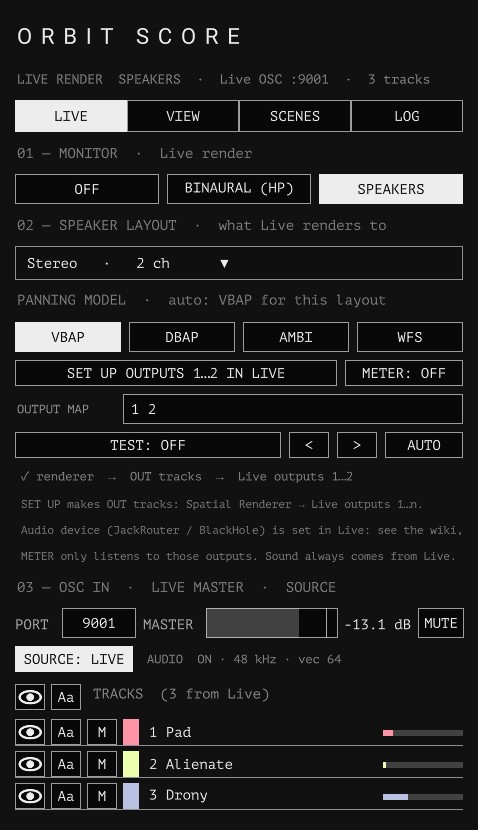
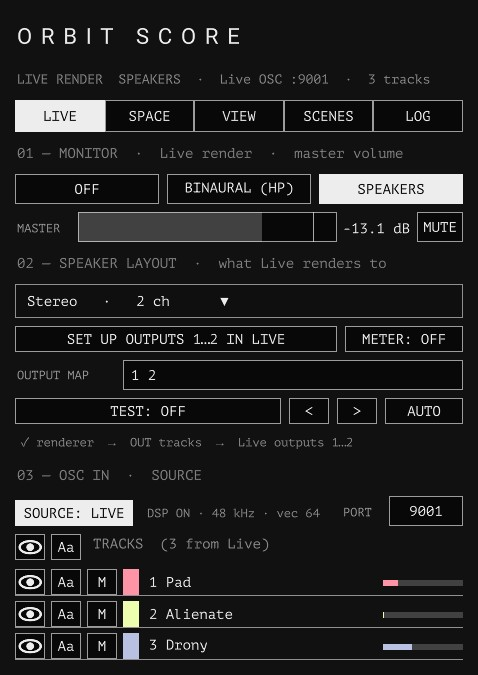
Orbit Score wiki v9.1: SPACE tab, MASTER under MONITOR, editor SOUND section
Claude-Session: https://claude.ai/code/session_01TKc1CDoWRtRwsAG1rPAYtG

Changed region(s): [[0.0293, 0.0311, 0.9665, 0.9956], [0.7908, 0.84, 0.9665, 0.9644], [0.7029, 0.7156, 0.9958, 0.7778]]

diff --git a/orbitscore-wiki/index.html b/orbitscore-wiki/index.html
@@ -144,7 +144,7 @@ footer{font:11.5px/1.6 var(--f-mono);color:var(--mid);border-top:1px solid var(-
 <div class="page">
 <nav class="side" aria-label="Contents">
   <div class="brand">ORBIT SCORE</div>
-  <div class="status">WIKI · v9.0 · 2026.11<br>LIVE · M4L · TOUCHDESIGNER</div>
+  <div class="status">WIKI · v9.1 · 2026.11<br>LIVE · M4L · TOUCHDESIGNER</div>
   <button class="btn menu" id="menuBtn" aria-expanded="false">CONTENTS ▾</button>
   <ol class="toc" id="toc">
     <li><a href="#overview"><span>00</span>OVERVIEW</a></li>
@@ -260,7 +260,7 @@ footer{font:11.5px/1.6 var(--f-mono);color:var(--mid);border-top:1px solid var(-
     <li><strong>Custom (measured)</strong> — last entry of the layout list. <strong>EDIT TABLE</strong> opens a table with one row per speaker: <span class="mono">name · az · el · dist · lfe</span> (az + = left, el + = up, dist relative to the ring, 1 = the speaker radius; lfe 1 for a sub). Measure the real room and type it in: the preview, the panning (VBAP, DBAP, AMBI decoder) and WFS all update when the table changes. Up to 64 speakers.</li>
     <li><strong>METER</strong> — optional. It finds JackRouter / BlackHole by itself and shows one level per speaker. On Windows, also connect Live's outputs to TouchDesigner's inputs in the QjackCtl Graph. You can leave it off.</li>
   </ul>
-  <figure class="ticks"><div class="t"></div><img src="media/ui-speakerout.jpg?v=1110f" alt="Sidebar LIVE tab: MONITOR, SPEAKER LAYOUT, PANNING MODEL, SET UP OUTPUTS and METER, OUTPUT MAP, speaker TEST, OSC IN with MASTER and MUTE, TRACKS" loading="lazy" width="478" height="830" style="max-width:478px"><figcaption>FIG. 1.2 — LIVE tab: SET UP OUTPUTS · METER under the speaker layout, wiki link at the bottom</figcaption></figure>
+  <figure class="ticks"><div class="t"></div><img src="media/ui-speakerout.jpg?v=1110g" alt="Sidebar LIVE tab: MONITOR with MASTER and MUTE, SPEAKER LAYOUT, SET UP OUTPUTS and METER, OUTPUT MAP, speaker TEST, status, OSC IN with SOURCE and PORT, TRACKS" loading="lazy" width="478" height="675" style="max-width:478px"><figcaption>FIG. 1.2 — LIVE tab: SET UP OUTPUTS · METER under the speaker layout, wiki link at the bottom</figcaption></figure>
   <div class="note"><b>NOTE</b>Live's Preferences → Audio (driver, device, sample rate, Output Config) cannot be changed through the Live API, so that part is set by hand once. The tracks and routing inside the set are handled by SET UP.</div>
   </section>
 
@@ -365,7 +365,8 @@ footer{font:11.5px/1.6 var(--f-mono);color:var(--mid);border-top:1px solid var(-
   <p>The right-hand panel folds away with the <span class="pill">›</span> button on its edge. It has three tabs.</p>
   <div class="tw"><table>
     <tr><th>Tab</th><th>Contents</th></tr>
-    <tr><td>LIVE</td><td>Everything that talks to Live. <strong>01 MONITOR</strong> Off / Binaural (HP) / Speakers · <strong>02 SPEAKER LAYOUT</strong> click to open the list (Custom: EDIT TABLE) · <strong>PANNING MODEL</strong> VBAP / DBAP / AMBI / WFS, follows the layout unless you pick one; SPEAKER DISTANCE · PRE-FILTER (WFS) · <strong>ROOM REVERB</strong> on/off, time, amount · <strong>REFLECTIONS</strong> on/off, room, level · <strong>SPEAKER DISTANCE</strong> metres (+ PRE-FILTER in WFS) · <strong>OUTPUT MAP</strong> which Live output each speaker plays on · <strong>03 OSC IN · LIVE MASTER · SOURCE</strong> port (editable), MASTER volume slider (Live's main volume; in speaker mode it scales the Spatial Renderer's outputs instead, since those bypass the main track), a <strong>MUTE</strong> button next to it (silences everything, keeps the slider value), SOURCE: LIVE / DEMO, and Live's audio state (DSP, sample rate, vector size; warns if not 48 kHz) · <strong>SET UP OUTPUTS 1…n IN LIVE</strong> (under the layout: the renderer's OUT tracks), status line, optional METER. Problems go to the LOG tab, which shows a small ⚠ · <strong>TRACKS</strong> per track: show (eye), name label (Aa), mute (M), colour, level meter</td></tr>
+    <tr><td>LIVE</td><td>Everything that talks to Live. <strong>01 MONITOR</strong> Off / Binaural (HP) / Speakers, and <strong>MASTER</strong> volume with <strong>MUTE</strong> right under it (in speaker mode it scales the Spatial Renderer, MUTE silences everything and keeps the slider) · <strong>02 SPEAKER LAYOUT</strong> click to open the list (Custom: EDIT TABLE) · <strong>SET UP OUTPUTS 1…n IN LIVE</strong> and optional METER · <strong>OUTPUT MAP</strong> which Live output each speaker plays on · <strong>TEST · &lt; · &gt; · AUTO</strong> · status line (setup hints only while something is missing) · <strong>03 OSC IN · SOURCE</strong> SOURCE: LIVE / DEMO, Live's audio state (DSP, sample rate, vector size), PORT · <strong>TRACKS</strong> per track: show (eye), name label (Aa), mute (M), colour, level meter</td></tr>
+    <tr><td>SPACE</td><td>How the sound fills the space. <strong>01 PANNING MODEL</strong> VBAP / DBAP / AMBI / WFS, follows the layout unless you pick one · <strong>02 ROOM</strong> ROOM REVERB (on, time, amount), REFLECTIONS (on, room, level), SPEAKER DISTANCE in metres (+ PRE-FILTER in WFS). Drag a value up / down to change it</td></tr>
     <tr><td>VIEW</td><td>Only what changes the picture. <strong>01 VIEW</strong> dome guide, auto orbit, reset view, ears, theme, names, head (hides the listener model, ears and face)</td></tr>
     <tr><td>SCENES</td><td>Scene list (see <a href="#scenes">05</a>)</td></tr>
     <tr><td>LOG</td><td>WARNINGS (output checks; a ⚠ on the tab while one is active), OSC and device messages. Drag to select and copy. COPY / CLEAR / RESEND (ask Live to send its whole state again)</td></tr>
@@ -380,6 +381,7 @@ footer{font:11.5px/1.6 var(--f-mono);color:var(--mid);border-top:1px solid var(-
   <div class="cap">04 — Object editor</div>
   <h2>Object editor</h2>
   <figure class="ticks"><div class="t"></div><img src="media/ui-editor.jpg?v=1110b" alt="OBJECT EDITOR: object list on the left, path canvas with orbit gizmo in the centre, MOTION / PATH / SHAPE settings on the right" loading="lazy" width="1920" height="1080"><figcaption>FIG. 4.1 — Left: objects · centre: path canvas · right: position read-out, MOTION, PATH, SHAPE · EDIT PATH above the canvas</figcaption></figure>
+  <figure class="ticks"><div class="t"></div><img src="media/ui-editor-set.jpg?v=1111a" alt="Editor settings column: 02 MOTION, 03 PATH, 04 SHAPE (ROTATE | TILT, modulation dropdowns, RANGE | SPEED), 05 SOUND (SPREAD | ROOM, AIR | DOPPLER)" loading="lazy" width="320" height="780" style="max-width:320px"><figcaption>Settings column: SHAPE and SOUND</figcaption></figure>
   <p>Open it from <span class="pill">OBJECT EDITOR</span> in the top bar. Anything you change here goes straight to the Live device's parameters, and the screen shows what the device sends back, so editing in either place gives the same result.</p>
   <h3>Viewpoint</h3>
   <ul>
@@ -401,7 +403,7 @@ footer{font:11.5px/1.6 var(--f-mono);color:var(--mid);border-top:1px solid var(-
   </table></div>
   <p>Curves are Catmull-Rom (Hermite) splines, and playback moves at constant speed along the arc length. Position = Live song position ÷ (Path Length × 4 beats).</p>
   <h3>Sliders</h3>
-  <p>Click or drag a slider (RATE, SIZE, PATH LENGTH, POINT HEIGHT, LENGTH, SPREAD, ROOM, ROTATE, TILT, RANGE, SPEED) to set it; AIR and DOPPLER (on / off) sit next to ROOM. Under TILT, <strong>ROT · FIXED ▼</strong> and <strong>TILT · FIXED ▼</strong> are dropdowns: pick FIXED, RANDOM, SPIN or LFO for that angle, and RANGE / SPEED set how far and how fast. While an angle is modulated its slider follows the moving value, its label shows the mode, and it cannot be dragged — the dial value in Live stays the centre the movement runs around. <strong>Double-click</strong> it to type a number instead: <kbd>Enter</kbd> or clicking elsewhere applies, <kbd>Esc</kbd> cancels. Units can be left off; the value is clamped to the slider's range.</p>
+  <p>Click or drag a slider (RATE, SIZE, PATH LENGTH, POINT HEIGHT, LENGTH, SPREAD, ROOM, ROTATE, TILT, RANGE, SPEED) to set it. The settings column reads 02 MOTION · 03 PATH · 04 SHAPE (point / line, facing, LENGTH, ROTATE | TILT, their modulation, RANGE | SPEED) · <strong>05 SOUND</strong> (SPREAD | ROOM, AIR | DOPPLER). Under TILT, <strong>ROT · FIXED ▼</strong> and <strong>TILT · FIXED ▼</strong> are dropdowns: pick FIXED, RANDOM, SPIN or LFO for that angle, and RANGE / SPEED set how far and how fast. While an angle is modulated its slider follows the moving value, its label shows the mode, and it cannot be dragged — the dial value in Live stays the centre the movement runs around. <strong>Double-click</strong> it to type a number instead: <kbd>Enter</kbd> or clicking elsewhere applies, <kbd>Esc</kbd> cancels. Units can be left off; the value is clamped to the slider's range.</p>
   <h3>Saving</h3>
   <p><span class="pill">SAVE</span> writes every object's settings to <code>spatialize_snapshots/&lt;time&gt;.json</code> and <code>latest.json</code>, and saves the TouchDesigner project. <span class="pill">LOAD LAST</span> restores the last snapshot. Save the Live set separately.</p>
 </section>
@@ -463,12 +465,13 @@ footer{font:11.5px/1.6 var(--f-mono);color:var(--mid);border-top:1px solid var(-
   <p>Headphones. When an object comes within about 1 m of the head (Distance × SPEAKER DISTANCE), the ear facing it gets louder and fuller in the bass and the far ear quieter — more than the far-field HRTF alone gives — and the whole sound comes up by as much as 6 dB. At 20 cm on the left: left ear about +11 dB with up to +6 dB of low end, right ear about −3 dB. That is the "whispering in your ear" cue. It needs no setting: it works on every object in binaural mode as soon as it gets close, and has no effect in speaker mode.</p>
   <h3>Early reflections</h3>
   <p>Speaker mode. The first echoes off the walls, floor and ceiling tell the ear what kind of room it is in and where the source sits in it. For every object the Spatial Renderer mirrors its position in the six surfaces of a box room (first-order image sources), delays each mirror image by its extra path, lowers it by the extra distance and the surface's absorption, and pans it to its own direction with VBAP. Move an object towards a wall and its reflection off that wall gets earlier and louder.</p>
-  <p>LIVE tab, <strong>REFLECTIONS</strong>: ON / OFF, <strong>ROOM</strong> (listener to the walls, 1.5 – 40 m; floor 1.2 m below the ears, ceiling at least 2.8 m) and the level. <strong>SPEAKER DISTANCE</strong> (listener to the speakers in metres) sets the scale between the layout and the room — measure it in the real space. Press a value and drag up or down. The reflections come before the room reverb's tail, so the two work together: ROOM for the shape, ROOM REVERB for the length.</p>
+  <p>SPACE tab, <strong>REFLECTIONS</strong>: ON / OFF, <strong>ROOM</strong> (listener to the walls, 1.5 – 40 m; floor 1.2 m below the ears, ceiling at least 2.8 m) and the level. <strong>SPEAKER DISTANCE</strong> (listener to the speakers in metres) sets the scale between the layout and the room — measure it in the real space. Press a value and drag up or down. The reflections come before the room reverb's tail, so the two work together: ROOM for the shape, ROOM REVERB for the length.</p>
   <h3>Room reverb</h3>
   <p>Speaker mode. The strongest distance cue is how much room you hear against the direct sound: a near source is mostly direct, a far one mostly room. The Spatial Renderer has one shared reverb (an 8-line feedback delay network); every object feeds it with a send that grows with its Distance, while its direct sound keeps falling with distance — so moving an object out makes it sound farther, not just quieter. The reverb's 8 uncorrelated tails are spread over all speakers (LFE excluded, the OUTPUT MAP is followed), so the room surrounds the listener.</p>
-  <p>LIVE tab, <strong>ROOM REVERB</strong>: ON / OFF, the reverb time (0.3 – 10 s; the room also gets bigger with it) and the amount (0 – 100 %). Press a value and drag up or down to change it. It works with every panning model. MASTER and MUTE apply to it, the speaker TEST silences it. Binaural mode has no room reverb yet — use a reverb on a Live return there.</p>
+  <p>SPACE tab, <strong>ROOM REVERB</strong>: ON / OFF, the reverb time (0.3 – 10 s; the room also gets bigger with it) and the amount (0 – 100 %). Press a value and drag up or down to change it. It works with every panning model. MASTER and MUTE apply to it, the speaker TEST silences it. Binaural mode has no room reverb yet — use a reverb on a Live return there.</p>
   <h3>Panning model</h3>
-  <p>PANNING MODEL (LIVE tab, under the speaker layout) sets how the <strong>Spatial Renderer</strong> spreads each object over the speakers, and the 3D view lights the speakers with the same gains — what you see is what you hear. All models are normalised to the same energy, so switching does not jump in level.</p>
+  <figure class="ticks"><div class="t"></div><img src="media/ui-space.jpg?v=1111a" alt="Sidebar SPACE tab: 01 PANNING MODEL with VBAP DBAP AMBI WFS, 02 ROOM with ROOM REVERB, REFLECTIONS and SPEAKER DISTANCE" loading="lazy" width="478" height="389" style="max-width:478px"><figcaption>FIG. 3.1 — SPACE tab: panning model and room</figcaption></figure>
+  <p>PANNING MODEL (SPACE tab) sets how the <strong>Spatial Renderer</strong> spreads each object over the speakers, and the 3D view lights the speakers with the same gains — what you see is what you hear. All models are normalised to the same energy, so switching does not jump in level.</p>
   <p><strong>Auto by layout.</strong> Choosing a speaker layout also picks its recommended model: VBAP for stereo, quad, 5.1, 7.1 and 5.1.4 (too few or too uneven speakers for Ambisonics); AMBI — the more enveloping of the two — for hexagon, octagon, ring 16, 7.1.4, 9.1.6, cube 8 and dome 25; WFS for the WFS arrays. Press another model and that choice is remembered for that layout (the heading reads <em>your pick</em>); press the recommended one to go back to auto. DBAP is never picked automatically — choose it for installations and walking audiences.</p>
   <div class="tw"><table>
     <tr><th>Model</th><th>How</th><th>Good for</th></tr>
@@ -646,6 +649,7 @@ footer{font:11.5px/1.6 var(--f-mono);color:var(--mid);border-top:1px solid var(-
   <h2>Changelog</h2>
   <div class="tw"><table>
     <tr><th>Date</th><th>Changes</th></tr>
+    <tr><td>2026.11.11</td><td>v9.1: UI — new SPACE tab (panning model, room), MASTER and MUTE under MONITOR, setup hints only when something is missing, editor 05 SOUND section</td></tr>
     <tr><td>2026.11.11</td><td>v9.0: near-field effect in binaural (closer than ~1 m: near ear louder and bassier, far ear quieter)</td></tr>
     <tr><td>2026.11.10</td><td>v8.9: Spread decorrelation — wide objects play uncorrelated all-passed copies on each speaker</td></tr>
     <tr><td>2026.11.10</td><td>v8.8: Doppler / distance delay per object (Spatial Object, editor DOPPLER)</td></tr>
@@ -768,7 +772,7 @@ footer{font:11.5px/1.6 var(--f-mono);color:var(--mid);border-top:1px solid var(-
     <li><strong>Custom (measured)</strong> — 레이아웃 목록 맨 끝. <strong>EDIT TABLE</strong>을 누르면 스피커 한 줄씩의 표가 열린다: <span class="mono">name · az · el · dist · lfe</span> (az + = 왼쪽, el + = 위, dist는 링 기준 상대값으로 1 = 스피커 반지름, 서브는 lfe 1). 실제 공간을 재서 입력하면 미리보기, 패닝(VBAP, DBAP, AMBI 디코더), WFS가 표를 바꿀 때마다 같이 바뀐다. 최대 64개.</li>
     <li><strong>METER</strong> — 선택 사항. 켜면 JackRouter / BlackHole을 자동으로 찾아 스피커별 레벨을 보여준다. Windows에서는 QjackCtl Graph에서 Live 출력을 TouchDesigner 입력에도 연결해야 보인다. 끄고 써도 된다.</li>
   </ul>
-  <figure class="ticks"><div class="t"></div><img src="media/ui-speakerout.jpg?v=1110f" alt="사이드바 LIVE 탭: MONITOR, SPEAKER LAYOUT, PANNING MODEL, SET UP OUTPUTS와 METER, OUTPUT MAP, 스피커 TEST, MASTER와 MUTE가 있는 OSC IN, TRACKS" loading="lazy" width="478" height="830" style="max-width:478px"><figcaption>FIG. 1.2 — LIVE 탭: 스피커 레이아웃 아래 SET UP OUTPUTS · METER, 맨 아래 위키 링크</figcaption></figure>
+  <figure class="ticks"><div class="t"></div><img src="media/ui-speakerout.jpg?v=1110g" alt="사이드바 LIVE 탭: MASTER와 MUTE가 있는 MONITOR, SPEAKER LAYOUT, SET UP OUTPUTS와 METER, OUTPUT MAP, 스피커 TEST, 상태, SOURCE와 PORT가 있는 OSC IN, TRACKS" loading="lazy" width="478" height="675" style="max-width:478px"><figcaption>FIG. 1.2 — LIVE 탭: 스피커 레이아웃 아래 SET UP OUTPUTS · METER, 맨 아래 위키 링크</figcaption></figure>
   <div class="note"><b>NOTE</b>Live의 환경설정 → Audio(드라이버, 장치, 샘플레이트, Output Config)는 Live API로 바꿀 수 없어서 처음 한 번은 손으로 설정한다. 세트 안의 트랙과 연결은 SET UP이 맡는다.</div>
   </section>
 
@@ -871,7 +875,8 @@ footer{font:11.5px/1.6 var(--f-mono);color:var(--mid);border-top:1px solid var(-
   <p>오른쪽 패널은 가장자리의 <span class="pill">›</span> 버튼으로 접고 펼 수 있다. 위쪽 탭은 세 개.</p>
   <div class="tw"><table>
     <tr><th>탭</th><th>항목</th></tr>
-    <tr><td>LIVE</td><td>Live와 주고받는 것 전부. <strong>01 MONITOR</strong> Off / Binaural (HP) / Speakers · <strong>02 SPEAKER LAYOUT</strong> 클릭하면 목록(Custom: EDIT TABLE) · <strong>PANNING MODEL</strong> VBAP / DBAP / AMBI / WFS, 직접 고르지 않으면 레이아웃을 따라감; SPEAKER DISTANCE · PRE-FILTER(WFS) · <strong>ROOM REVERB</strong> 켜기/끄기, 길이, 양 · <strong>REFLECTIONS</strong> 켜기/끄기, 방 크기, 레벨 · <strong>SPEAKER DISTANCE</strong> 미터(WFS면 + PRE-FILTER) · <strong>OUTPUT MAP</strong> 스피커마다 나갈 Live 출력 · <strong>03 OSC IN · LIVE MASTER · SOURCE</strong> 포트(편집 가능), MASTER 볼륨 슬라이더(Live 메인 볼륨. 스피커 모드에서는 출력이 메인 트랙을 거치지 않으므로 Spatial Renderer 출력 레벨을 조절한다), 옆의 <strong>MUTE</strong> 버튼(전체 소리를 끄고, 슬라이더 값은 그대로 둔다), SOURCE: LIVE / DEMO, Live 오디오 상태(DSP, 샘플레이트, 벡터 크기 — 48 kHz가 아니면 경고) · <strong>SET UP OUTPUTS 1…n IN LIVE</strong>(레이아웃 아래: 렌더러 OUT 트랙), 상태 줄, 선택 사항인 METER. 문제는 LOG 탭으로 가고 탭에 작은 ⚠가 붙는다 · <strong>TRACKS</strong> 트랙별 표시(눈), 이름표(Aa), 뮤트(M), 색, 레벨 미터</td></tr>
+    <tr><td>LIVE</td><td>Live와 주고받는 것 전부. <strong>01 MONITOR</strong> Off / Binaural (HP) / Speakers, 바로 아래 <strong>MASTER</strong> 볼륨과 <strong>MUTE</strong>(스피커 모드에서는 Spatial Renderer 레벨, MUTE는 전체를 끄고 슬라이더 값은 유지) · <strong>02 SPEAKER LAYOUT</strong> 클릭하면 목록(Custom: EDIT TABLE) · <strong>SET UP OUTPUTS 1…n IN LIVE</strong>와 선택 사항 METER · <strong>OUTPUT MAP</strong> 스피커마다 나갈 Live 출력 · <strong>TEST · &lt; · &gt; · AUTO</strong> · 상태 줄(뭔가 빠졌을 때만 셋업 안내) · <strong>03 OSC IN · SOURCE</strong> SOURCE: LIVE / DEMO, Live 오디오 상태(DSP, 샘플레이트, 벡터 크기), PORT · <strong>TRACKS</strong> 트랙별 표시(눈), 이름표(Aa), 뮤트(M), 색, 레벨 미터</td></tr>
+    <tr><td>SPACE</td><td>소리가 공간을 채우는 방식. <strong>01 PANNING MODEL</strong> VBAP / DBAP / AMBI / WFS, 직접 고르지 않으면 레이아웃을 따라감 · <strong>02 ROOM</strong> ROOM REVERB(켜기, 길이, 양), REFLECTIONS(켜기, 방 크기, 레벨), SPEAKER DISTANCE 미터(WFS면 + PRE-FILTER). 값은 위아래로 끌어서 바꾼다</td></tr>
     <tr><td>VIEW</td><td>화면에 관한 것만. <strong>01 VIEW</strong> Dome guide, Auto orbit, Reset view, Ears, Theme, Names, Head(청자 머리·귀·표정 숨기기)</td></tr>
     <tr><td>SCENES</td><td>씬 목록 (<a href="#ko-scenes">05</a> 참고)</td></tr>
     <tr><td>LOG</td><td>WARNINGS(출력 검사 — 걸려 있는 동안 탭에 ⚠), OSC·디바이스 로그. 드래그해서 선택·복사할 수 있다. COPY / CLEAR / RESEND(Live에 전체 상태를 다시 요청)</td></tr>
@@ -885,6 +890,7 @@ footer{font:11.5px/1.6 var(--f-mono);color:var(--mid);border-top:1px solid var(-
   <div class="cap">04 — Object editor</div>
   <h2>오브젝트 에디터</h2>
   <figure class="ticks"><div class="t"></div><img src="media/ui-editor.jpg?v=1110b" alt="OBJECT EDITOR: 왼쪽 오브젝트 목록, 가운데 경로 캔버스와 회전 기즈모, 오른쪽 MOTION/PATH/SHAPE 설정" loading="lazy" width="1920" height="1080"><figcaption>FIG. 4.1 — 왼쪽: 오브젝트 · 가운데: 경로 캔버스 · 오른쪽: 위치 표시, MOTION, PATH, SHAPE · 캔버스 위 EDIT PATH</figcaption></figure>
+  <figure class="ticks"><div class="t"></div><img src="media/ui-editor-set.jpg?v=1111a" alt="편집기 설정 열: 02 MOTION, 03 PATH, 04 SHAPE(ROTATE | TILT, 모듈레이션 드롭다운, RANGE | SPEED), 05 SOUND(SPREAD | ROOM, AIR | DOPPLER)" loading="lazy" width="320" height="780" style="max-width:320px"><figcaption>설정 열: SHAPE와 SOUND</figcaption></figure>
   <p>상단 바의 <span class="pill">OBJECT EDITOR</span>로 연다. 여기서 바꾼 값은 곧바로 Live 디바이스 파라미터로 가고, 디바이스가 돌려보낸 값이 화면에 표시된다 — 양쪽 어디서 바꿔도 결과가 같다.</p>
   <h3>시점</h3>
   <ul>
@@ -906,7 +912,7 @@ footer{font:11.5px/1.6 var(--f-mono);color:var(--mid);border-top:1px solid var(-
   </table></div>
   <p>곡선은 Catmull-Rom(Hermite) 스플라인이고, 재생은 길이를 따라 등속으로 진행한다. 위치 = Live 송 포지션 ÷ (Path Length × 4박).</p>
   <h3>슬라이더</h3>
-  <p>슬라이더(RATE, SIZE, PATH LENGTH, POINT HEIGHT, LENGTH, SPREAD, ROOM, ROTATE, TILT, RANGE, SPEED, ROOM 옆에는 AIR와 DOPPLER 켜기/끄기)는 클릭하거나 드래그해서 값을 정한다. TILT 아래 <strong>ROT · FIXED ▼</strong>, <strong>TILT · FIXED ▼</strong>는 드롭다운이다 — 그 각도에 FIXED, RANDOM, SPIN, LFO 중 하나를 고르고, RANGE / SPEED로 폭과 빠르기를 정한다. 모듈레이션 중인 각도의 슬라이더는 움직이는 값을 따라 움직이고, 이름 옆에 모드가 표시되며, 손으로는 바꿀 수 없다 — Live의 다이얼 값은 움직임의 중심으로 남는다. <strong>더블클릭</strong>하면 숫자를 직접 입력할 수 있다 — <kbd>Enter</kbd>나 다른 곳 클릭으로 적용, <kbd>Esc</kbd>로 취소. 단위는 빼도 되고, 값은 슬라이더 범위 안으로 맞춰진다.</p>
+  <p>슬라이더(RATE, SIZE, PATH LENGTH, POINT HEIGHT, LENGTH, SPREAD, ROOM, ROTATE, TILT, RANGE, SPEED, 05 SOUND의 AIR · DOPPLER 켜기/끄기)는 클릭하거나 드래그해서 값을 정한다. 설정 열은 02 MOTION · 03 PATH · 04 SHAPE(점/선, 방향, LENGTH, ROTATE | TILT와 그 모듈레이션, RANGE | SPEED) · <strong>05 SOUND</strong>(SPREAD | ROOM, AIR | DOPPLER) 순서다. TILT 아래 <strong>ROT · FIXED ▼</strong>, <strong>TILT · FIXED ▼</strong>는 드롭다운이다 — 그 각도에 FIXED, RANDOM, SPIN, LFO 중 하나를 고르고, RANGE / SPEED로 폭과 빠르기를 정한다. 모듈레이션 중인 각도의 슬라이더는 움직이는 값을 따라 움직이고, 이름 옆에 모드가 표시되며, 손으로는 바꿀 수 없다 — Live의 다이얼 값은 움직임의 중심으로 남는다. <strong>더블클릭</strong>하면 숫자를 직접 입력할 수 있다 — <kbd>Enter</kbd>나 다른 곳 클릭으로 적용, <kbd>Esc</kbd>로 취소. 단위는 빼도 되고, 값은 슬라이더 범위 안으로 맞춰진다.</p>
   <h3>저장</h3>
   <p><span class="pill">SAVE</span>는 모든 오브젝트 설정을 <code>spatialize_snapshots/&lt;시간&gt;.json</code>과 <code>latest.json</code>으로 남기고 TouchDesigner 프로젝트도 저장한다. <span class="pill">LOAD LAST</span>로 마지막 스냅샷을 되돌린다. Live 세트는 따로 저장해야 한다.</p>
 </section>
@@ -966,12 +972,13 @@ footer{font:11.5px/1.6 var(--f-mono);color:var(--mid);border-top:1px solid var(-
   <p>헤드폰. 오브젝트가 머리에서 약 1 m 안으로 들어오면(Distance × SPEAKER DISTANCE), 그쪽 귀는 더 크고 저음이 풍부해지고 반대쪽 귀는 작아진다 — 원거리 HRTF만으로 생기는 차이보다 크게 — 그리고 전체 음량이 최대 6 dB 올라간다. 왼쪽 20 cm에서는 왼쪽 귀가 약 +11 dB(저음은 최대 +6 dB 더), 오른쪽 귀는 약 −3 dB. "귓가에서 속삭이는" 느낌의 단서다. 설정할 것은 없다: 바이노럴 모드에서 모든 오브젝트가 가까워지면 저절로 적용되고, 스피커 모드에는 영향이 없다.</p>
   <h3>초기 반사음</h3>
   <p>스피커 모드. 벽·바닥·천장에서 처음 튕겨 오는 소리는 귀에 방이 어떤 곳이고 음원이 그 안 어디에 있는지 알려준다. Spatial Renderer는 오브젝트마다 그 위치를 상자 모양 방의 여섯 면에 비춘 거울 음원(1차 이미지 소스)을 만들고, 각각 늘어난 경로만큼 늦추고, 늘어난 거리와 면의 흡음만큼 줄이고, VBAP로 그 방향에 패닝한다. 오브젝트를 벽 쪽으로 옮기면 그 벽의 반사음이 더 빨라지고 커진다.</p>
-  <p>LIVE 탭 <strong>REFLECTIONS</strong>: ON / OFF, <strong>ROOM</strong>(청취자에서 벽까지, 1.5 – 40 m; 바닥은 귀 높이보다 1.2 m 아래, 천장은 최소 2.8 m), 레벨. <strong>SPEAKER DISTANCE</strong>(청취자에서 스피커까지, 미터)가 레이아웃과 방 사이의 축척을 정한다 — 실제 공간에서 잰다. 값을 누른 채 위아래로 끌어서 바꾼다. 반사음은 룸 리버브의 꼬리보다 먼저 와서 둘이 함께 동작한다: ROOM은 방의 모양, ROOM REVERB는 울림의 길이.</p>
+  <p>SPACE 탭 <strong>REFLECTIONS</strong>: ON / OFF, <strong>ROOM</strong>(청취자에서 벽까지, 1.5 – 40 m; 바닥은 귀 높이보다 1.2 m 아래, 천장은 최소 2.8 m), 레벨. <strong>SPEAKER DISTANCE</strong>(청취자에서 스피커까지, 미터)가 레이아웃과 방 사이의 축척을 정한다 — 실제 공간에서 잰다. 값을 누른 채 위아래로 끌어서 바꾼다. 반사음은 룸 리버브의 꼬리보다 먼저 와서 둘이 함께 동작한다: ROOM은 방의 모양, ROOM REVERB는 울림의 길이.</p>
   <h3>룸 리버브</h3>
   <p>스피커 모드. 거리감에 가장 강하게 작용하는 건 직접음 대비 방 울림의 양이다: 가까운 소리는 대부분 직접음, 먼 소리는 대부분 울림. Spatial Renderer에 공용 리버브가 하나 있고(8줄 피드백 딜레이 네트워크), 각 오브젝트는 Distance가 클수록 많이 보내며 직접음은 거리에 따라 계속 줄어든다 — 그래서 오브젝트를 멀리 보내면 작아지기만 하는 게 아니라 멀어진다. 리버브의 서로 다른 꼬리 8개가 모든 스피커로 퍼져서(LFE 제외, OUTPUT MAP을 따름) 방 울림이 청취자를 감싼다.</p>
-  <p>LIVE 탭 <strong>ROOM REVERB</strong>: ON / OFF, 울림 길이(0.3 – 10초, 길수록 방도 커진다), 양(0 – 100 %). 값을 누른 채 위아래로 끌어서 바꾼다. 모든 패닝 방식에서 동작한다. MASTER와 MUTE가 적용되고, 스피커 TEST 중에는 꺼진다. 바이노럴 모드에는 아직 룸 리버브가 없다 — 그때는 Live 리턴 트랙에 리버브를 쓴다.</p>
+  <p>SPACE 탭 <strong>ROOM REVERB</strong>: ON / OFF, 울림 길이(0.3 – 10초, 길수록 방도 커진다), 양(0 – 100 %). 값을 누른 채 위아래로 끌어서 바꾼다. 모든 패닝 방식에서 동작한다. MASTER와 MUTE가 적용되고, 스피커 TEST 중에는 꺼진다. 바이노럴 모드에는 아직 룸 리버브가 없다 — 그때는 Live 리턴 트랙에 리버브를 쓴다.</p>
   <h3>패닝 모델</h3>
-  <p>PANNING MODEL(LIVE 탭, 스피커 레이아웃 아래)은 <strong>Spatial Renderer</strong>가 각 오브젝트를 스피커에 어떻게 나눌지 정하고, 3D 뷰의 스피커도 같은 게인으로 빛난다 — 보이는 것이 곧 들리는 것. 모든 방식은 같은 에너지로 맞춰져 있어서 바꿔도 음량이 튀지 않는다.</p>
+  <figure class="ticks"><div class="t"></div><img src="media/ui-space.jpg?v=1111a" alt="사이드바 SPACE 탭: 01 PANNING MODEL(VBAP DBAP AMBI WFS), 02 ROOM(ROOM REVERB, REFLECTIONS, SPEAKER DISTANCE)" loading="lazy" width="478" height="389" style="max-width:478px"><figcaption>FIG. 3.1 — SPACE 탭: 패닝 방식과 방</figcaption></figure>
+  <p>PANNING MODEL(SPACE 탭)은 <strong>Spatial Renderer</strong>가 각 오브젝트를 스피커에 어떻게 나눌지 정하고, 3D 뷰의 스피커도 같은 게인으로 빛난다 — 보이는 것이 곧 들리는 것. 모든 방식은 같은 에너지로 맞춰져 있어서 바꿔도 음량이 튀지 않는다.</p>
   <p><strong>레이아웃에 따라 자동.</strong> 스피커 레이아웃을 고르면 추천 방식도 같이 정해진다: 스테레오·쿼드·5.1·7.1·5.1.4는 VBAP(Ambisonics에는 스피커가 너무 적거나 고르지 않음), 둘 중 더 감싸는 느낌인 AMBI는 육각·팔각·링 16·7.1.4·9.1.6·큐브 8·돔 25, WFS 배열은 WFS. 다른 방식을 누르면 그 레이아웃에서는 그 선택이 기억되고(제목에 <em>your pick</em>), 추천 방식을 누르면 다시 자동으로 돌아간다. DBAP는 자동으로 고르지 않는다 — 설치 작품이나 돌아다니는 관객이면 직접 고른다.</p>
   <div class="tw"><table>
     <tr><th>방식</th><th>원리</th><th>어울리는 곳</th></tr>
@@ -1142,6 +1149,7 @@ footer{font:11.5px/1.6 var(--f-mono);color:var(--mid);border-top:1px solid var(-
   <h2>변경 이력</h2>
   <div class="tw"><table>
     <tr><th>날짜</th><th>내용</th></tr>
+    <tr><td>2026.11.11</td><td>v9.1: UI — 새 SPACE 탭(패닝 방식, 방), MONITOR 아래 MASTER와 MUTE, 셋업 안내는 빠진 게 있을 때만, 편집기 05 SOUND 섹션</td></tr>
     <tr><td>2026.11.11</td><td>v9.0: 바이노럴 근거리 효과 (약 1 m 안: 가까운 귀는 크고 저음이 많게, 먼 귀는 작게)</td></tr>
     <tr><td>2026.11.10</td><td>v8.9: Spread 탈상관 — 넓은 오브젝트는 스피커마다 서로 다른 올패스 복사본을 재생</td></tr>
     <tr><td>2026.11.10</td><td>v8.8: 오브젝트별 도플러 / 거리 지연 (Spatial Object, 에디터 DOPPLER)</td></tr>
